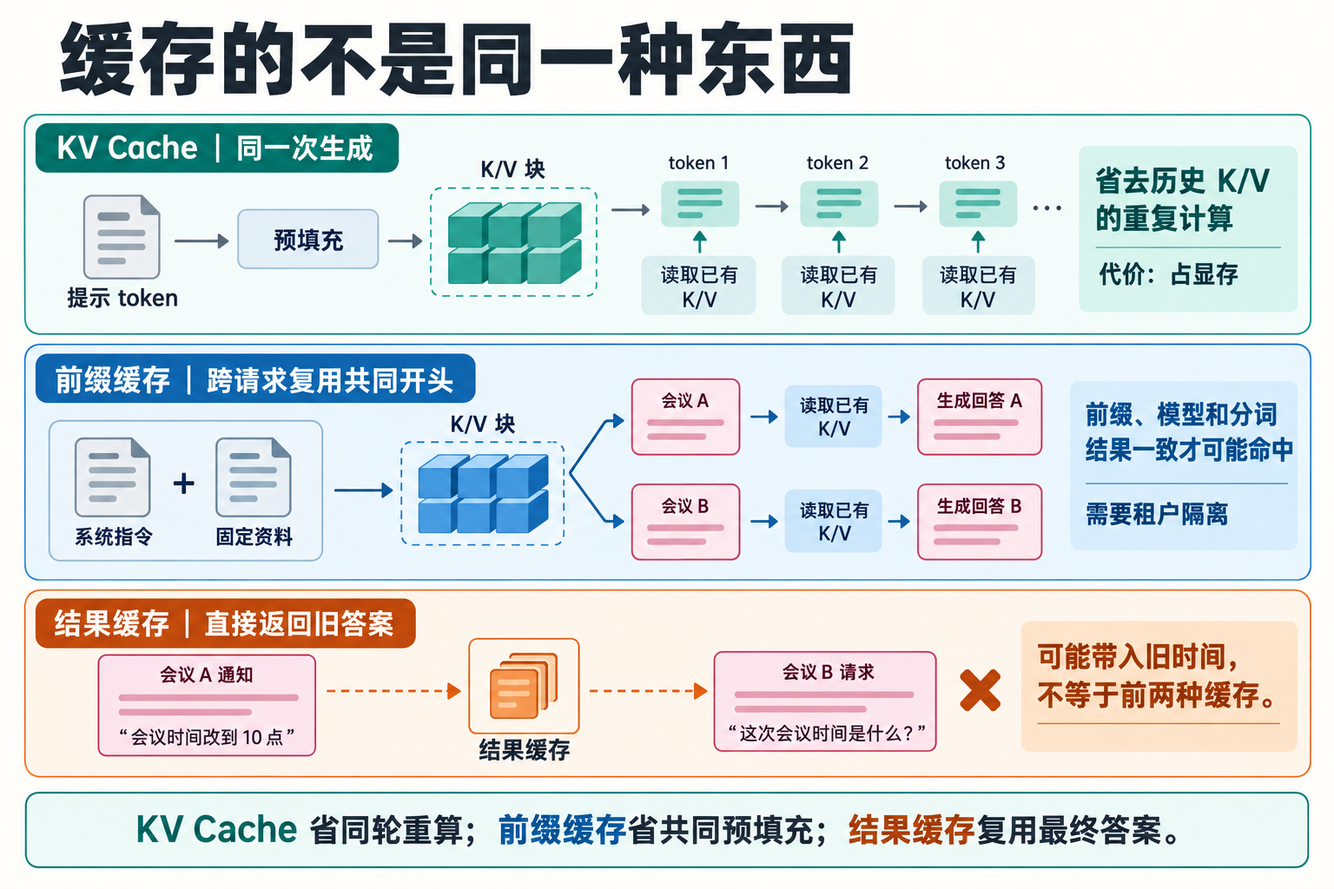
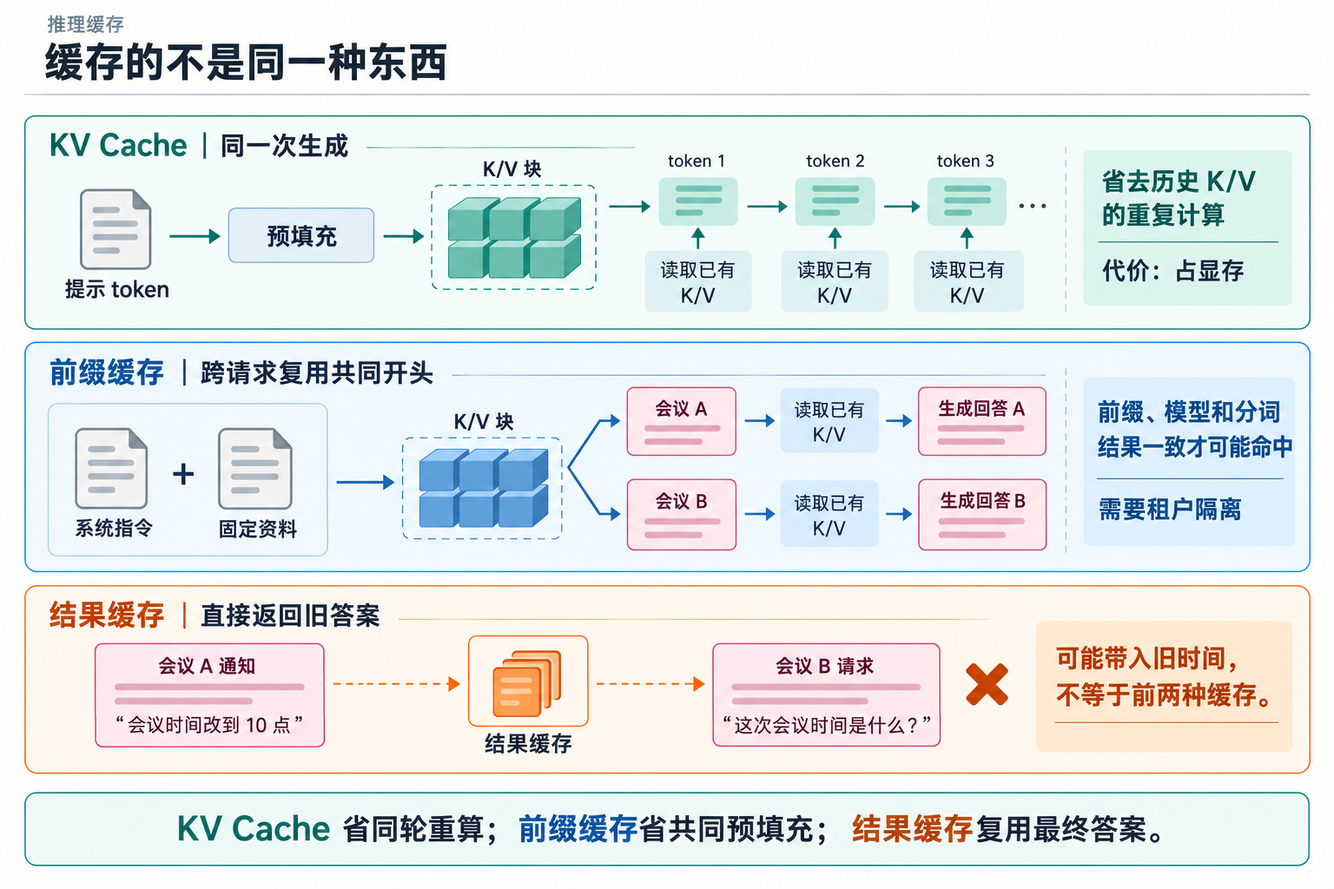
Polish LLM interview layout and visuals

Changed region(s): [[0.0, 0.0, 1.0, 0.875], [0.0312, 0.9062, 0.9688, 1.0]]

diff --git a/content/wechat/01-foundation-models-and-inference/submodules/01-llm/interview-side.md b/content/wechat/01-foundation-models-and-inference/submodules/01-llm/interview-side.md
@@ -12,10 +12,10 @@ topic: "foundation"
 content_level: "submodule"
 submodule: "llm"
 series_order: 1
-version: "0.4.0"
-stage: "补足十道题的机制原理并改用面试专属图解"
-git_state: "基于 3568ec8（main；修改前仅有未跟踪的推文终稿目录）"
-modified_at: "2026-09-30 10:58 CST"
+version: "0.4.1"
+stage: "恢复面试答题层级并统一橙色排版"
+git_state: "基于 19d428e（main；修改前仅有未跟踪的推文终稿目录）"
+modified_at: "2026-09-30 11:27 CST"
 ---
 
 # 面试题：大语言模型从原理到验证怎么答
@@ -26,15 +26,19 @@ modified_at: "2026-09-30 10:58 CST"
 
 ## 问题 1：为什么不能按字数估计模型输入成本？
 
-**原理。** 模型接收的不是“字数”，而是分词器切出的 `token`。分词器依据自己的词表把原文拆成子词、字符、标点等片段，再把它们转换成编号；编号经过嵌入层，才成为模型可计算的向量。词表和切分算法随模型而变，同一句话换一个模型、语言或写法，`token` 数都可能变化。时间、网址、代码和生僻名称尤其不能凭字数猜。
+### 原理
+
+模型接收的不是“字数”，而是分词器切出的 `token`。分词器依据自己的词表把原文拆成子词、字符、标点等片段，再把它们转换成编号；编号经过嵌入层，才成为模型可计算的向量。词表和切分算法随模型而变，同一句话换一个模型、语言或写法，`token` 数都可能变化。时间、网址、代码和生僻名称尤其不能凭字数猜。
 
 一次请求占用的上下文还包括系统指令、历史消息、工具定义、检索材料、当前输入和为输出预留的空间。成本评估应使用目标模型的分词器跑真实样本，统计中位数与高分位，而不是套用“一个汉字等于一个 token”。
 
 ![同一段话的字数、token 切分与上下文预算](./assets/llm-token-cost.png)
 
-**答题点。** 先说明“原文 → token → 编号 → 向量”；再列出完整预算项；最后说清用目标分词器实测，并为长尾请求和输出留余量。
+### 答题点
 
-**记忆点：** 字是人看的，`token` 才是模型算的。
+先说明“原文 → token → 编号 → 向量”；再列出完整预算项；最后说清用目标分词器实测，并为长尾请求和输出留余量。
+
+> **记忆点：** 字是人看的，`token` 才是模型算的。
 
 **常见追问：** “`16:00—17:00` 占几个 token？”应回答“以目标模型实测为准”，时间是否正确则另用字段校验。
 
@@ -42,13 +46,17 @@ modified_at: "2026-09-30 10:58 CST"
 
 ## 问题 2：模型为什么能续写通知，却可能编造会议链接？
 
-**原理。** 自回归语言模型把一段文本的概率拆成连续条件概率：当前 `token` 的分布取决于此前已经出现的 `token`。模型输出一组分数（`logits`），解码器据此选出下一个 `token`，再把它接回上下文继续计算。因此，它很擅长写出“像通知”的下文，但训练目标首先要求续写合理，并不自带对当前日历的查询。
+### 原理
+
+自回归语言模型把一段文本的概率拆成连续条件概率：当前 `token` 的分布取决于此前已经出现的 `token`。模型输出一组分数（`logits`），解码器据此选出下一个 `token`，再把它接回上下文继续计算。因此，它很擅长写出“像通知”的下文，但训练目标首先要求续写合理，并不自带对当前日历的查询。
 
 参数里保存的是从训练材料学到的语言和知识模式，不是今天这场会议的实时状态。指令微调可以让模型更愿意遵守“缺信息就追问”，却不会创造尚未生成的链接。若系统没有提供链接或工具回执，正确做法是留空、标注待补或追问。
 
-**答题点。** 说清逐 `token` 建模；区分语言合理与事实成立；把链接、发送状态等实时信息交给外部系统和证据核验。
+### 答题点
 
-**记忆点：** 会续写，不等于看过日历。
+说清逐 `token` 建模；区分语言合理与事实成立；把链接、发送状态等实时信息交给外部系统和证据核验。
+
+> **记忆点：** 会续写，不等于看过日历。
 
 **常见追问：** “温度调到零能避免编链接吗？”不能，最高概率候选也可能没有事实依据。
 
@@ -56,7 +64,9 @@ modified_at: "2026-09-30 10:58 CST"
 
 ## 问题 3：自注意力在这条通知里起什么作用？
 
-**原理。** 每个位置会生成查询（`Query`）、键（`Key`）和值（`Value`）。查询与各位置的键做缩放点积，经 `softmax` 得到权重，再对值加权汇总：`softmax(QKᵀ/√dₖ)V`。多头注意力让不同的头分别学习时间、主体、指代等关系；位置信息补充先后顺序；仅解码器模型还用因果掩码，阻止当前位置读取尚未生成的未来内容。
+### 原理
+
+每个位置会生成查询（`Query`）、键（`Key`）和值（`Value`）。查询与各位置的键做缩放点积，经 `softmax` 得到权重，再对值加权汇总：`softmax(QKᵀ/√dₖ)V`。多头注意力让不同的头分别学习时间、主体、指代等关系；位置信息补充先后顺序；仅解码器模型还用因果掩码，阻止当前位置读取尚未生成的未来内容。
 
 它能把“改为线上”与“这场会议”关联起来，也可能同时看到旧记录中的“A302”。注意力负责信息交互，不负责裁定哪份材料具有更高业务权威。版本标记、字段优先级和输出核验仍要由上下文组织与程序规则承担。
 
@@ -64,9 +74,11 @@ modified_at: "2026-09-30 10:58 CST"
 
 *依据《Attention Is All You Need》Figure 2 与第 3.2 节改绘。*
 
-**答题点。** 至少讲到 Q/K/V、缩放、`softmax`、多头和因果掩码；再说明注意力不是数据库查询，也不等于事实裁决。
+### 答题点
 
-**记忆点：** 注意力决定怎样汇总，不决定谁是真相。
+至少讲到 Q/K/V、缩放、`softmax`、多头和因果掩码；再说明注意力不是数据库查询，也不等于事实裁决。
+
+> **记忆点：** 注意力决定怎样汇总，不决定谁是真相。
 
 **常见追问：** “为什么旧地点仍会出现？”因为它仍在输入里，且没有被可靠降权或在输出后拦截。
 
@@ -74,15 +86,19 @@ modified_at: "2026-09-30 10:58 CST"
 
 ## 问题 4：长上下文装得下，为什么还会用错地点？
 
-**原理。** 上下文窗口只说明请求最多能容纳多少 `token`，不保证模型稳定找到、正确解释并采用每条信息。输入越长，旧值重复、记录冲突和位置变化越容易干扰判断。模型还可能把“最新用户要求”“历史资料”和“工具返回”当成同一层级的普通文本。
+### 原理
+
+上下文窗口只说明请求最多能容纳多少 `token`，不保证模型稳定找到、正确解释并采用每条信息。输入越长，旧值重复、记录冲突和位置变化越容易干扰判断。模型还可能把“最新用户要求”“历史资料”和“工具返回”当成同一层级的普通文本。
 
 “中间信息更容易被忽略”是长上下文研究在特定任务和模型上的观察，不是放之四海而皆准的定律。工程上应把容量、检索到信息、按权威顺序使用信息分开测；对时间、方式、链接状态和允许动作，最好先整理成有来源和版本的字段。
 
 ![旧日程与新要求的上下文冲突](./assets/llm-context-conflict.png)
 
-**答题点。** 区分“装得下、找得到、用得对”；说明冲突消解规则；用关键信息位于开头、中间、末尾的样本测试位置敏感性。
+### 答题点
 
-**记忆点：** 桌子够大，不代表拿对了那张纸。
+区分“装得下、找得到、用得对”；说明冲突消解规则；用关键信息位于开头、中间、末尾的样本测试位置敏感性。
+
+> **记忆点：** 桌子够大，不代表拿对了那张纸。
 
 **常见追问：** “把旧对话摘要掉可以吗？”可以减长度，但数字、缺失状态和动作限制不能被摘要丢失。
 
@@ -90,15 +106,19 @@ modified_at: "2026-09-30 10:58 CST"
 
 ## 问题 5：温度、`Top-k`、`Top-p` 各控制什么？
 
-**原理。** 模型先为候选 `token` 产生 `logits`。温度会在 `softmax` 前缩放这些分数：温度低，分布通常更集中；温度高，候选之间的差距变小。`Top-k` 只保留分数最高的固定数量候选，`Top-p` 则从高到低累加概率，保留累计达到阈值的动态集合。具体服务如何组合这些参数，顺序和默认值可能不同。
+### 原理
+
+模型先为候选 `token` 产生 `logits`。温度会在 `softmax` 前缩放这些分数：温度低，分布通常更集中；温度高，候选之间的差距变小。`Top-k` 只保留分数最高的固定数量候选，`Top-p` 则从高到低累加概率，保留累计达到阈值的动态集合。具体服务如何组合这些参数，顺序和默认值可能不同。
 
 这些参数控制“从哪些候选中选”和“输出波动多大”，不提供事实证据。低温度可以让通知更稳定，却可能稳定地复述旧地点；所以稳定性与事实正确率必须分别评估。
 
 ![解码参数怎样影响候选范围](./assets/llm-sampling.png)
 
-**答题点。** 先区分分布缩放、固定名额和累计概率；再说明参数实现依服务而异；最后把字段正确率与多样性分开测。
+### 答题点
 
-**记忆点：** 温度调平陡，`Top-k` 数名额，`Top-p` 看累计。
+先区分分布缩放、固定名额和累计概率；再说明参数实现依服务而异；最后把字段正确率与多样性分开测。
+
+> **记忆点：** 温度调平陡，`Top-k` 数名额，`Top-p` 看累计。
 
 **常见追问：** “每次输出相同，能证明可靠吗？”不能，它可能每次都稳定写错。
 
@@ -106,15 +126,19 @@ modified_at: "2026-09-30 10:58 CST"
 
 ## 问题 6：这条通知的幻觉应怎样定位和治理？
 
-**原理。** “地点仍为 A302”“会议链接为某网址”“邀请已发送”并不是同一种错：第一项沿用了过期证据，第二项填入了缺失事实，第三项把未执行动作写成已完成。若统一归为“模型胡说”，就无法为不同错误设置不同的拦截条件。
+### 原理
+
+“地点仍为 A302”“会议链接为某网址”“邀请已发送”并不是同一种错：第一项沿用了过期证据，第二项填入了缺失事实，第三项把未执行动作写成已完成。若统一归为“模型胡说”，就无法为不同错误设置不同的拦截条件。
 
 治理时先把通知拆成可核对的最小陈述，再为每条陈述标注来源、时效和执行回执。语言模型可以起草，事实层却要遵守三条边界：旧值需按版本淘汰，未知值允许为空，动作状态必须由工具结果或明确回执证明。
 
 ![会议通知中的陈述、输入依据与处理判断](./assets/llm-evidence-audit.png)
 
-**答题点。** 建立“陈述—来源—判断”链；区分过期、缺失和未执行；对高风险动作设置证据门槛，而不是只加一句“不要幻觉”。
+### 答题点
 
-**记忆点：** 旧值要辨，缺值留白，动作看回执。
+建立“陈述—来源—判断”链；区分过期、缺失和未执行；对高风险动作设置证据门槛，而不是只加一句“不要幻觉”。
+
+> **记忆点：** 旧值要辨，缺值留白，动作看回执。
 
 **常见追问：** “提示词强调不编造够吗？”不够，提示词没有补齐事实，也不能证明工具已经执行。
 
@@ -122,15 +146,19 @@ modified_at: "2026-09-30 10:58 CST"
 
 ## 问题 7：结构化输出格式正确，为什么还会写错通知？
 
-**原理。** `JSON Schema` 可以约束必填字段、数据类型、枚举和嵌套结构；支持约束解码的服务还能在生成阶段排除不合法的结构。但“16:00—17:00”与旧时间“14:00—15:00”都是合法字符串，`draft_only` 与 `sent` 也可能都是枚举允许值。结构合法只解决机器能否读取，不解决值是否来自最新证据。
+### 原理
+
+`JSON Schema` 可以约束必填字段、数据类型、枚举和嵌套结构；支持约束解码的服务还能在生成阶段排除不合法的结构。但“16:00—17:00”与旧时间“14:00—15:00”都是合法字符串，`draft_only` 与 `sent` 也可能都是枚举允许值。结构合法只解决机器能否读取，不解决值是否来自最新证据。
 
 可靠链路至少有三道检查：先验结构，再比对字段与来源，最后确认渲染后的正文没有把字段改坏。还可让结果携带 `evidence_refs` 和动作状态，使“值从哪里来”能够追踪，而不是只有一份漂亮的 JSON。
 
 ![结构正确与事实正确的三道检查](./assets/llm-structured-truth.png)
 
-**答题点。** 用 `required`、`type`、`enum` 解释结构约束；明确其不验证时效和来源；补充字段—证据—正文一致性检查。
+### 答题点
 
-**记忆点：** 格式负责能读，证据负责可信。
+用 `required`、`type`、`enum` 解释结构约束；明确其不验证时效和来源；补充字段—证据—正文一致性检查。
+
+> **记忆点：** 格式负责能读，证据负责可信。
 
 **常见追问：** “Schema 能阻止旧时间吗？”除非把业务约束显式编码并与最新输入比对，否则不能。
 
@@ -138,15 +166,19 @@ modified_at: "2026-09-30 10:58 CST"
 
 ## 问题 8：`KV Cache`、前缀缓存与结果缓存有什么区别？
 
-**原理。** 推理分为预填充（`prefill`）和解码（`decode`）。预填充一次处理已知提示，并在每层产生键和值；解码每生成一个新 `token`，只需计算新位置，再读取此前保存的键和值。`KV Cache` 因而减少同一轮生成中的重复计算，但会占用显存，而且新位置仍要与历史缓存做注意力计算。
+### 原理
+
+推理分为预填充（`prefill`）和解码（`decode`）。预填充一次处理已知提示，并在每层产生键和值；解码每生成一个新 `token`，只需计算新位置，再读取此前保存的键和值。`KV Cache` 因而减少同一轮生成中的重复计算，但会占用显存，而且新位置仍要与历史缓存做注意力计算。
 
 前缀缓存把相同提示前缀对应的 KV 块跨请求复用，适合共同系统指令或固定资料；它要求模型、分词结果和前缀边界一致，还要做好租户隔离。结果缓存则直接返回旧答案，可能把上一场会议的时间带进来，不能与前两者混为一谈。
 
 ![KV Cache、前缀缓存与结果缓存的边界](./assets/llm-cache-comparison.png)
 
-**答题点。** 说明预填充与解码；比较同一请求复用、跨请求前缀复用和直接复用答案；补充显存、命中条件与隔离风险。
+### 答题点
 
-**记忆点：** KV 省历史重算，前缀省共同开头，结果缓存直接拿旧答案。
+说明预填充与解码；比较同一请求复用、跨请求前缀复用和直接复用答案；补充显存、命中条件与隔离风险。
+
+> **记忆点：** KV 省历史重算，前缀省共同开头，结果缓存直接拿旧答案。
 
 **常见追问：** “有 KV Cache 就能并行生成整段吗？”不能，自回归依赖仍在。
 
@@ -154,15 +186,19 @@ modified_at: "2026-09-30 10:58 CST"
 
 ## 问题 9：怎样为这项任务设计一组有用的评测？
 
-**原理。** 单条漂亮通知只能证明模型曾经答对。评测集要覆盖正常改期、旧新冲突、链接缺失、后来补入真实链接等场景，并为每条样本写清期望字段与禁止陈述。字段校验适合确定性程序；语言是否清楚可由规则或人工量表判断，两类结果不要混成一个“总体不错”。
+### 原理
+
+单条漂亮通知只能证明模型曾经答对。评测集要覆盖正常改期、旧新冲突、链接缺失、后来补入真实链接等场景，并为每条样本写清期望字段与禁止陈述。字段校验适合确定性程序；语言是否清楚可由规则或人工量表判断，两类结果不要混成一个“总体不错”。
 
 比较模型或提示词版本时，应固定样本、参数和判错口径，保留原始输出，并按错误类型统计：旧值误用、缺值编造、无依据声称动作完成、结构字段与正文矛盾。准确率还要写清分母；严重错误应单列，不能被文风分数平均掉。
 
 ![会议通知评测的场景、判据与错误归因](./assets/llm-evaluation-matrix.png)
 
-**答题点。** 先讲场景覆盖，再讲字段级判据和错误分类，最后讲同条件对比、原始记录和回归门槛。
+### 答题点
 
-**记忆点：** 同一批材料、同一套判据，版本才可比较。
+先讲场景覆盖，再讲字段级判据和错误分类，最后讲同条件对比、原始记录和回归门槛。
+
+> **记忆点：** 同一批材料、同一套判据，版本才可比较。
 
 **常见追问：** “换更大模型先看什么？”先看关键错误是否下降，再比较成本和时延。
 
@@ -170,13 +206,17 @@ modified_at: "2026-09-30 10:58 CST"
 
 ## 问题 10：输入能并行处理，为什么通知仍要逐步生成？
 
-**原理。** 训练时，目标序列已经完整存在，通过因果掩码可同时计算多个位置的损失，这常被称为教师强制下的并行训练。推理时，预填充也能在每一层并行处理已知提示；但未知的第 `t+1` 个 `token` 必须等第 `t` 个产生并加入上下文，解码因此保留串行依赖。
+### 原理
+
+训练时，目标序列已经完整存在，通过因果掩码可同时计算多个位置的损失，这常被称为教师强制下的并行训练。推理时，预填充也能在每一层并行处理已知提示；但未知的第 `t+1` 个 `token` 必须等第 `t` 个产生并加入上下文，解码因此保留串行依赖。
 
 输入很长主要增加预填充时间，输出很长则增加解码步数。连续批处理、推测解码等技术可以提高吞吐或减少等待，但没有改变自回归概率分解本身。性能分析应分别报告首个 `token` 延迟、后续生成速度和完整耗时。
 
-**答题点。** 区分训练、预填充与解码；解释输入长度和输出长度影响的阶段；说明优化吞吐不等于取消自回归依赖。
+### 答题点
 
-**记忆点：** 已知输入可并行读，未知输出仍要接着写。
+区分训练、预填充与解码；解释输入长度和输出长度影响的阶段；说明优化吞吐不等于取消自回归依赖。
+
+> **记忆点：** 已知输入可并行读，未知输出仍要接着写。
 
 **常见追问：** “KV Cache 改变了什么？”它省历史重算，但没有让未来 token 提前出现。
 

diff --git a/content/wechat/01-foundation-models-and-inference/submodules/01-llm/prompts.md b/content/wechat/01-foundation-models-and-inference/submodules/01-llm/prompts.md
@@ -1,6 +1,6 @@
 # 大语言模型子模块配图提示词
 
-版本：1.0.0；修订时间：2026-09-30 10:58 CST；依据提交：`3568ec8`（`main`；修订前仅有未跟踪的推文终稿目录）。
+版本：1.1.0；修订时间：2026-09-30 11:37 CST；依据提交：`19d428e`（`main`；修订前仅有未跟踪的推文终稿目录）。
 
 统一规格：1536x1024 PNG，暖白背景，深灰正文，青绿、梅红、蓝与铁锈橙只承担信息语义；不使用贯穿画布的装饰竖条、PPT 母版、渐变、霓虹、立体阴影、水印、Logo 或不可读小字。正文图以机制、对照、证据关系或实验结果为主体，不把正文改排成方框或表格充数。原有成片使用 `gpt-image-2`；`llm-sampling.png` 与 `llm-evidence-audit.png` 于本版使用内置图像生成工具重绘，并以已认可的生成循环、自注意力和 RNN 对比图作为样式参考。
 
@@ -9,7 +9,7 @@
 3. `llm-token-generation.png`：生成循环，标签“输入 token”“概率分布”“选择下一个”“继续生成”。
 4. `llm-sampling.png`：生成参数对照图。使用同一组会议通知候选续写及其示意概率，分别展示低/高温度造成的分布集中或平缓、`Top-k = 2` 固定保留两个候选、`Top-p = 0.90` 累计到 92% 后停止扩展。三个参数区域并列，不画成必然串行的处理流水线；结论明确“参数改变候选分布与选择范围，不提供事实依据”。
 5. `llm-evidence-audit.png`：会议通知的陈述—依据—判断证据追踪图。顶部区分最新要求、旧日程与执行结果；中部把输出拆成“改至 16:00—17:00”“地点仍为 A302”“会议链接稍后补充”“邀请已发出”四条陈述，用来源连线分别落到保留、删除并改为线上、改写为链接待补、禁止写入。不要使用传统三列表格。
-6. `llm-context-conflict.png`：长上下文冲突图。并列展示旧日程“A302、14:00—15:00”和新要求“线上、16:00—17:00、链接待补”，再落到输出字段，说明“装得下”不等于“用得对”。由 `scripts/render-foundation-figure-fixes.py` 确定性绘制。
+6. `llm-context-conflict.png`：长上下文冲突图。并列展示旧日程“A302、14:00—15:00”和新要求“线上、16:00—17:00、链接待补”，再落到输出字段，说明“装得下”不等于“用得对”。2026-09-30 使用内置图像编辑工具移除左侧通高梅红竖条，保留原有节点、箭头与文字。
 
 7. `llm-principle.png`：原理图。依据 [Attention Is All You Need](https://arxiv.org/abs/1706.03762) Figure 2 与第 3.2.3 节改绘。保留 `Q`、`K`、`V`、缩放点积、`softmax`、对 `V` 加权汇总和因果掩码说明。图注：“依据 Vaswani 等，Figure 2 与第 3.2.3 节改绘。”
 8. `llm-rnn-comparison.png`：原理对比图。依据同一论文第 4 节与 Table 1。左侧展示 RNN 隐藏状态依次依赖，右侧展示自注意力层在训练阶段并行处理各输入位置；明确“自回归生成仍逐步产生下一个 token”。
@@ -93,6 +93,18 @@
 - 示意数值：错误次数仅用于解释分类统计，不代表真实实验结果。
 - 结论：“严重错误单列，不能被文风分数平均掉。”
 - 禁止项：不把单条成功样本画成评测结论，不用装饰性排行榜或没有分母的综合分。
+
+## 1.1.0 副文配图降噪修订
+
+副文新增四图曾使用高饱和蓝、青绿、梅红和橙色大色块，主标题也明显大于已有采样图与证据图，连续阅读时比正文更抢眼。本版统一按下列编辑提示重绘：
+
+- 主标题左对齐，字号参照 `llm-sampling.png`，高度原则上不超过画布的 9%；标题上只放一个小号分类词，下方使用细分隔线；
+- 暖白为主背景，深灰为主体文字；蓝、青绿、梅红、杏橙降低饱和度并以浅色底使用，高饱和颜色只留给细边、箭头、短标签和关键警告；
+- 去掉大面积实色标题条、实色编号圆、渐变、光泽和阴影，不靠颜色面积制造层级；
+- `llm-token-cost.png`、`llm-structured-truth.png`、`llm-cache-comparison.png`、`llm-evaluation-matrix.png` 保留原知识关系与全部必要文字，仅调整色彩、标题尺度、边框和留白；
+- `llm-context-conflict.png` 只删除通高竖条并重新平衡左侧留白，不改变冲突整理逻辑。
+
+验收结果：五张图均为 1536×1024 PNG；已核对中文、英文专有名词、时间、示意数值、箭头方向与左侧边缘，未保留通高装饰竖条。
 
 ### 配色修订版
 

diff --git a/docs/project-specification.md b/docs/project-specification.md
@@ -4,11 +4,11 @@
 
 | 项目 | 值 |
 | --- | --- |
-| 规范版本 | `1.24.0` |
+| 规范版本 | `1.25.0` |
 | 适用项目版本 | `0.5.0` |
-| 阶段 | 公众号一级模块与子模块目录统一增加两位序号 |
-| 文档基线 | 基于 `12635a2`（`main`；修改前仅有未跟踪的推文终稿目录） |
-| 修改时间 | `2026-09-30 10:05 CST` |
+| 阶段 | 公众号橙色排版设为默认主题并恢复面试副文层级 |
+| 文档基线 | 基于 `19d428e`（`main`；修改前仅有未跟踪的推文终稿目录） |
+| 修改时间 | `2026-09-30 11:27 CST` |
 
 ## 1. 目标与边界
 
@@ -291,7 +291,7 @@ ai-agent-knowledge-map/
 - Markdown、配图、提示词和 `series.json` 是可维护的原始资产。公众号交付通道统一为“Markdown → 带内联样式的 HTML → 上传图片 → `draft/add` 草稿”；不再生成或维护 Word 终稿，也不把导出的 HTML、API JSON 或公众号后台草稿当作第二份内容源。草稿中发现问题，先改原稿或转换器，再重新生成；
 - “生成某模块推文”先完成内容资产及本地校验。用户明确要求“导入草稿”“生成公众号草稿”或“在公众号后台预览”时，再对点名的文章组调用 API；创建草稿不等于发布或群发，不因一组获准而自动导入整个一级模块；
 - 同一组的正式交付默认是一份**双图文草稿**：`articles[0]` 为 `beginner-main.md` 主文，`articles[1]` 为 `interview-side.md` 副文；独立专题的副文可以不是面试题。两篇的 `topic`、`content_level`、`submodule`、`series_order` 一致。草稿实际顺序由 `--file`、`--side-file` 的传参位置决定；Front Matter 的 `order` 记录并校验预期先后，不负责自动排序。除非用户明确要求单篇，不把两篇拆成互不关联的草稿；
-- 两篇共用一套克制的橙色视觉语言。正式创建草稿时显式使用 `--theme orange`：白色或暖白底、深色正文、橙色章节强调，浅橙色代码区和提示框，灰色居中图注。当前样式以 `lib/wechat/markdown.mjs` 的 `orange` 主题为准；不把第三方编辑器整套模板、复杂嵌套样式或依赖 JavaScript 的效果直接塞进 API 正文；
+- 两篇共用一套克制的橙色视觉语言。转换器默认使用 `orange` 主题：白色或暖白底、深色正文、橙色章节强调，浅橙色代码区和提示框，灰色居中图注；正式命令仍可显式写 `--theme orange` 便于审计。当前样式以 `lib/wechat/markdown.mjs` 的 `orange` 主题为准；不把第三方编辑器整套模板、复杂嵌套样式或依赖 JavaScript 的效果直接塞进 API 正文；
 - 主文是连续讲解，章节标题围绕读者的问题推进；面试副文用题号和“原理、答题点、记忆点、常见追问、失分点”形成层级，独立专题的非面试副文则按自身内容组织清晰层级。两篇沿用相同字体、段距、图片宽度和强调色，不靠换一种配色区分主副文；具体内容分工仍按 5.3.2 节执行；
 - 正文保留有节制的 `**加粗**`、行内代码、列表、独立代码块和图注：加粗突出结论或边界，行内代码标参数与字段，代码块使用浅色底与清晰缩进；图注紧跟对应图片，不能并入普通段落。图片顺序、参考资料与文末项目入口按 5.3.4、5.3.5 节保留，不为追求装饰挤占 20000 字符的 HTML 限额；
 - 主文和副文分别在 Front Matter 指定本地 `cover`。主文封面按首条大图预览；副文使用独立封面，并检查其作为右侧小缩略图时的中心裁切、文字大小和对比度，不直接缩小主文封面。封面可能与公众号列表叠加的标题同时出现，预览时要检查重复文字与遮挡；正文五图仍不计封面；

diff --git a/docs/wechat-illustration-reference.md b/docs/wechat-illustration-reference.md
@@ -4,11 +4,11 @@
 
 | 项目 | 值 |
 | --- | --- |
-| 规范版本 | `1.2.0` |
+| 规范版本 | `1.3.0` |
 | 适用项目版本 | `0.5.0` |
-| 阶段 | 补充主文与面试副文的配图分工规则 |
-| 文档基线 | `3568ec8`（`main`；修改前仅有未跟踪的推文终稿目录） |
-| 修改时间 | `2026-09-30 10:58 CST` |
+| 阶段 | 补充正文图的标题尺度、饱和度与连续阅读降噪规则 |
+| 文档基线 | `19d428e`（`main`；修改前仅有未跟踪的推文终稿目录） |
+| 修改时间 | `2026-09-30 11:37 CST` |
 
 ## 1. 适用范围
 
@@ -79,10 +79,10 @@
 
 ### 7.2 视觉约束
 
-- 正文图采用无装饰边框的中文教学图：暖白背景、深灰正文，青绿、梅红、蓝与铁锈橙只承担信息语义。颜色在同一张图内不得同时表示互相冲突的状态。
+- 正文图采用无装饰边框的中文教学图：暖白背景、深灰正文，青绿、梅红、蓝与铁锈橙只承担信息语义。色块默认使用低饱和浅色，高饱和颜色只用于细边、箭头、短标签或关键警告；不得让多块高饱和区域同时争夺注意力。颜色在同一张图内不得表示互相冲突的状态。
 - 禁止在整张图片左侧放置贯穿上下的彩色装饰竖条；单个节点的短色边只有在表示输入类型、处理阶段或判断状态时才可使用。
 - 不使用 PPT 母版感的页眉、角标和通用边框，不使用渐变、霓虹、玻璃质感、立体阴影、装饰盾牌、机器人头像、脑袋或电路背景。
-- 图形是主体。顶部只保留简短分类和问题式标题，中部核心图解应占主要面积，底部可放一句边界说明或来源；不采用“大标题占半张图、下面只有几个泛化方框”的构图。
+- 图形是主体。顶部只保留简短分类和问题式标题，中部核心图解应占主要面积，底部可放一句边界说明或来源；主标题原则上不超过画布高度的 8%—10%，同一篇文章内标题字号保持一致，不采用“大标题占半张图、下面只有几个泛化方框”的构图。
 - 文字少、字号大、标签短；移动端缩小后仍应看清关键字段、箭头和结论。图片若必须依靠一段小字才能成立，应把该说明移回正文或图注。
 
 ### 7.3 提示词结构

diff --git a/docs/wechat-integration.md b/docs/wechat-integration.md
@@ -4,10 +4,10 @@
 
 | 项目 | 值 |
 | --- | --- |
-| 版本 | `0.5.4` |
-| 阶段 | 草稿命令与系列说明同步使用带序号的模块、子模块目录；公网回调仍待部署 |
-| Git 状态 | 基于 `12635a2`（`main`；修改前仅有未跟踪的推文终稿目录） |
-| 修改时间 | `2026-09-30 10:05 CST` |
+| 版本 | `0.5.5` |
+| 阶段 | 草稿转换器默认使用橙色主题；公网回调仍待部署 |
+| Git 状态 | 基于 `19d428e`（`main`；修改前仅有未跟踪的推文终稿目录） |
+| 修改时间 | `2026-09-30 11:27 CST` |
 
 ## 1. 已实现链路
 
@@ -95,7 +95,7 @@ order: 1
 
 导入前会强制校验：标题、作者和摘要长度；HTML 少于 20000 个字符且小于 1 MB；正文不含 JavaScript；封面和正文图片均为本地 JPG/PNG；文章包含“参考资料”小节和至少一个 HTTP(S) 文档链接。正文图片在创建草稿时先调用微信图片上传接口，HTML 只使用微信返回的 URL。若 `content_source_url` 为空，脚本会采用文末 `[阅读原文](...)` 的地址；两处都填写时必须一致。
 
-当前脚本不带参数时会把 `content/wechat/05-tools-skills-and-protocols/beginner-main.md` 作为单篇、绿色主题草稿导入，只用于兼容旧命令和单篇烟测。**正式主副文交付必须显式指定两篇路径及 `--theme orange`**，不要依赖这个默认值。
+当前脚本不带参数时会把 `content/wechat/05-tools-skills-and-protocols/beginner-main.md` 作为单篇、橙色主题草稿导入，只用于兼容旧命令和单篇烟测。正式主副文交付仍应显式指定两篇路径；`--theme orange` 可省略，若需要兼容旧稿可显式传入 `--theme green`。
 
 该主题包含 1 组总概览和 6 组子模块，共 14 篇 Markdown。子模块文章位于 `content/wechat/05-tools-skills-and-protocols/submodules/<child>/`，其主副文路径以 `series.json` 为准。
 
